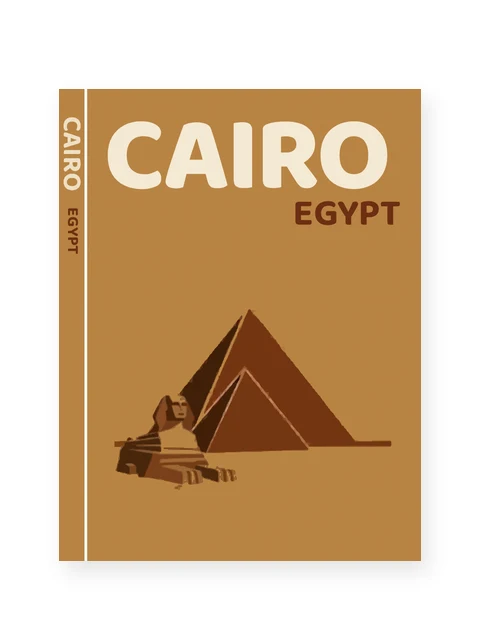
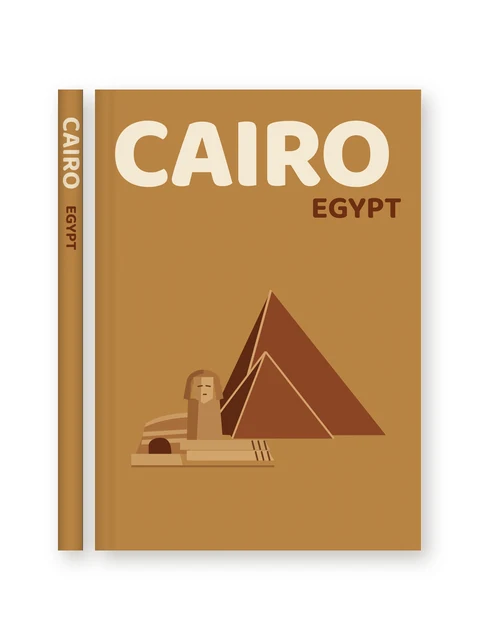
Cairo travel template, redrawn sharp, now offered
After Clara's mock-up: the pyramids of Giza and the Sphinx drawn as vectors
(travel-cairo-v2.svg), sharp at any print size. Same colors and titles
(Cairo, Egypt). With Beirut and Dubai, every travel template is now
offered: the list of hidden ones is gone. New preview picture.

Claude-Session: https://claude.ai/code/session_019iW3qNmH4N4x87DfLWtU9k

Changed region(s): [[0.0938, 0.125, 0.9062, 0.875], [0.7188, 0.1875, 0.8125, 0.2812]]

diff --git a/frontend/src/lib/coverThemes.js b/frontend/src/lib/coverThemes.js
@@ -332,6 +332,33 @@ export const COVER_THEMES = [
           ],
         },
       },
+      {
+        // The pyramids of Giza and the Sphinx, drawn as vectors after
+        // Clara's mock-up (sharp at any print size).
+        id: "travel-cairo",
+        name: "Cairo, Egypt",
+        landingImage: "/theme-covers/travel-cairo.webp",
+        title: "Cairo",
+        cover: {
+          bg_color: "#B78242",
+          accent_color: "#6E2E12",
+          text_color: "#F4E9D3",
+          title_font: BALOO,
+          title_font_weight: "800",
+          title_font_size: 66,
+          title_x: 0.05, title_y: 0.04, title_w: 0.89, title_h: 0.18,
+          spine_subtitle: "Egypt",
+          spine_subtitle_color: "#6E2E12",
+          spine_subtitle_font: BALOO,
+          spine_subtitle_weight: "700",
+          spine_title_size: 32,
+          spine_title_font: BALOO,
+          extra_items: [
+            iconItem(TRAVEL_CAIRO_ICON, "travel_cairo", { x: 0.08, y: 0.42, w: 0.84, h: 0.42 }),
+            textItem("subtitle", "Egypt", { role: "subtitle", x: 0.44, y: 0.22, w: 0.5, h: 0.08, font: BALOO, font_weight: "700", font_size: 28, color: "#6E2E12", text_align: "right" }),
+          ],
+        },
+      },
     ],
   },
   {
@@ -632,35 +659,3 @@ export function findTemplate(templateId) {
   }
   return null;
 }
-
-// Travel covers for travellers from Lebanon, kept out of the template list
-// until their illustrations are redone from high-resolution images: add
-// them back to the "travel" templates above to offer them again (as done
-// for Beirut and Dubai).
-export const PENDING_TRAVEL_TEMPLATES = [
-  {
-    id: "travel-cairo",
-    name: "Cairo, Egypt",
-    landingImage: "/theme-covers/travel-cairo.webp",
-    title: "Cairo",
-    cover: {
-      bg_color: "#B78242",
-      accent_color: "#6E2E12",
-      text_color: "#F4E9D3",
-      title_font: BALOO,
-      title_font_weight: "800",
-      title_font_size: 66,
-      title_x: 0.05, title_y: 0.04, title_w: 0.89, title_h: 0.18,
-      spine_subtitle: "Egypt",
-      spine_subtitle_color: "#6E2E12",
-      spine_subtitle_font: BALOO,
-      spine_subtitle_weight: "700",
-      spine_title_size: 32,
-      spine_title_font: BALOO,
-      extra_items: [
-        iconItem(TRAVEL_CAIRO_ICON, "travel_cairo", { x: 0.08, y: 0.45, w: 0.84, h: 0.4 }),
-        textItem("subtitle", "Egypt", { role: "subtitle", x: 0.44, y: 0.22, w: 0.5, h: 0.08, font: BALOO, font_weight: "700", font_size: 28, color: "#6E2E12", text_align: "right" }),
-      ],
-    },
-  },
-];

diff --git a/frontend/src/lib/themeAssets.js b/frontend/src/lib/themeAssets.js
@@ -9,4 +9,4 @@ export const TRAVEL_AUSTRALIA_ICON = "/cover-art/travel-australia-v1.svg";
 export const TRAVEL_BARCELONA_ICON = "/cover-art/travel-barcelona-v2.svg";
 export const TRAVEL_BEIRUT_ICON = "/cover-art/travel-beirut-v2.svg";
 export const TRAVEL_DUBAI_ICON = "/cover-art/travel-dubai-v2.svg";
-export const TRAVEL_CAIRO_ICON = "/cover-art/travel-cairo-v1.svg";
+export const TRAVEL_CAIRO_ICON = "/cover-art/travel-cairo-v2.svg";
